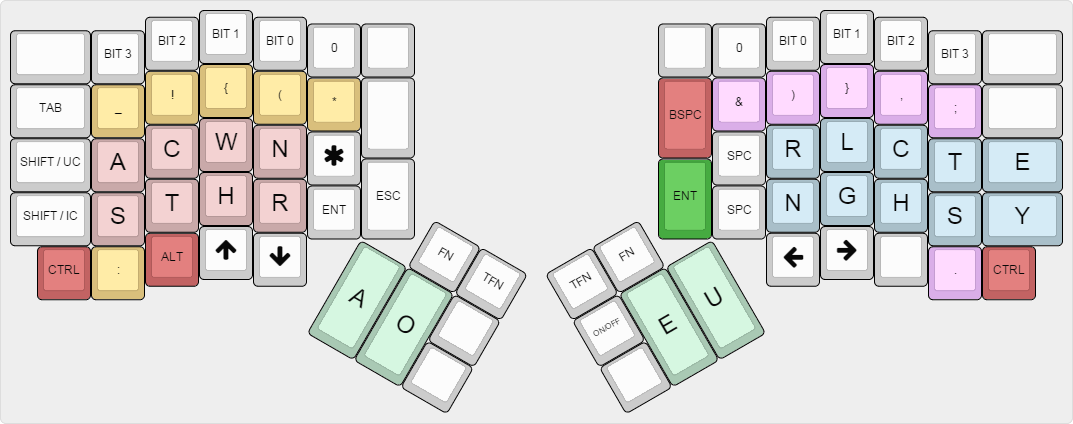
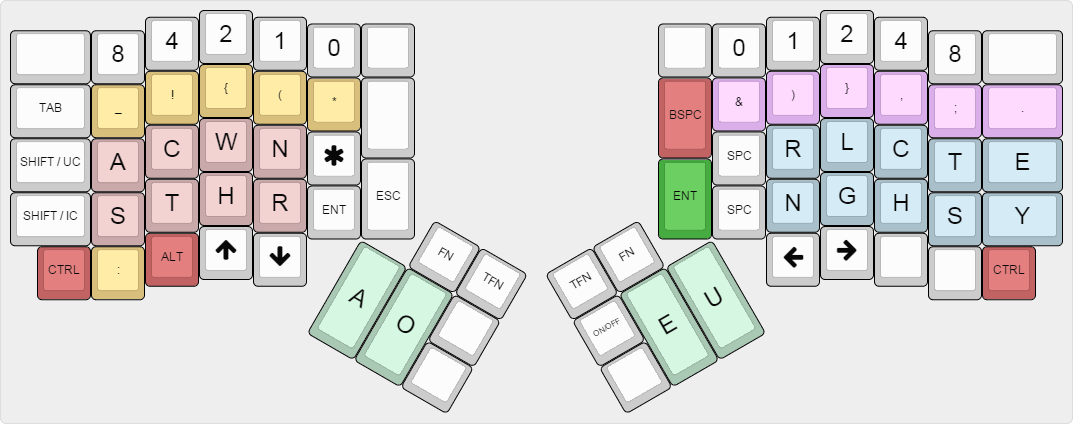
Keymap update

diff --git a/keyboard/ergodox_ez/keymaps/fromtonrouge/lookup_tables/shelton_tables.h b/keyboard/ergodox_ez/keymaps/fromtonrouge/lookup_tables/shelton_tables.h
@@ -1,5 +1,5 @@
-#ifndef SHELTON_TABLE_H
-#define SHELTON_TABLE_H
+#ifndef SHELTON_TABLES_H
+#define SHELTON_TABLES_H
 
 #include "encode.h"
 
@@ -550,90 +550,6 @@ const uint8_t PROGMEM g_right_pinky_table[4][MAX_LETTERS] =
     _1(KC_E),                               // [1]
     _1(KC_Y),                               // [2]
     _2(KC_E, KC_Y)                          // [3]
-};
-
-const uint16_t PROGMEM g_spaces_ctl_table[8][MAX_SYMBOLS] =
-{
-    NO_ENTRY,                               // [0]
-    _S1(KC_SPC),                            // [1]
-    _S1(KC_TAB),                            // [2]
-    NO_ENTRY,                               // [3]
-    _S1(KC_ENT),                            // [4]
-    NO_ENTRY,                               // [5]
-    NO_ENTRY,                               // [6]
-    NO_ENTRY,                               // [7]
-};
-
-const uint16_t PROGMEM g_left_numbers[32][MAX_SYMBOLS] =
-{
-    NO_ENTRY,                               // [0]
-    _S1(_N1),                               // [1]
-    _S1(_N2),                               // [2]
-    _S1(_N3),                               // [3]
-    _S1(_N4),                               // [4]
-    _S1(_N5),                               // [5]
-    _S1(_N6),                               // [6]
-    _S1(_N7),                               // [7]
-    _S1(_N8),                               // [8]
-    _S1(_N9),                               // [9]
-    _S2(_N1,_N0),                           // [10]
-    _S2(_N1,_N1),                           // [11]
-    _S2(_N1,_N2),                           // [12]
-    _S2(_N1,_N3),                           // [13]
-    _S2(_N1,_N4),                           // [14]
-    _S2(_N1,_N5),                           // [15]
-    _S1(_N0),                               // [16]
-    _S2(_N1, _N0),                          // [17]
-    _S2(_N2, _N0),                          // [18]
-    _S2(_N3, _N0),                          // [19]
-    _S2(_N4, _N0),                          // [20]
-    _S2(_N5, _N0),                          // [21]
-    _S2(_N6, _N0),                          // [22]
-    _S2(_N7, _N0),                          // [23]
-    _S2(_N8, _N0),                          // [24]
-    _S2(_N9, _N0),                          // [25]
-    _S3(_N1, _N0, _N0),                     // [26]
-    _S3(_N1, _N1, _N0),                     // [27]
-    _S3(_N1, _N2, _N0),                     // [28]
-    _S3(_N1, _N3, _N0),                     // [29]
-    _S3(_N1, _N4, _N0),                     // [30]
-    _S3(_N1, _N5, _N0)                      // [31]
-};
-
-const uint16_t PROGMEM g_right_numbers[32][MAX_SYMBOLS] =
-{
-    NO_ENTRY,                               // [0]
-    _S1(_N1),                               // [1]
-    _S1(_N2),                               // [2]
-    _S1(_N3),                               // [3]
-    _S1(_N4),                               // [4]
-    _S1(_N5),                               // [5]
-    _S1(_N6),                               // [6]
-    _S1(_N7),                               // [7]
-    _S1(_N8),                               // [8]
-    _S1(_N9),                               // [9]
-    _S2(_N1,_N0),                           // [10]
-    _S2(_N1,_N1),                           // [11]
-    _S2(_N1,_N2),                           // [12]
-    _S2(_N1,_N3),                           // [13]
-    _S2(_N1,_N4),                           // [14]
-    _S2(_N1,_N5),                           // [15]
-    _S1(_N0),                               // [16]
-    _S2(_N1, _N0),                          // [17]
-    _S2(_N2, _N0),                          // [18]
-    _S2(_N3, _N0),                          // [19]
-    _S2(_N4, _N0),                          // [20]
-    _S2(_N5, _N0),                          // [21]
-    _S2(_N6, _N0),                          // [22]
-    _S2(_N7, _N0),                          // [23]
-    _S2(_N8, _N0),                          // [24]
-    _S2(_N9, _N0),                          // [25]
-    _S3(_N1, _N0, _N0),                     // [26]
-    _S3(_N1, _N1, _N0),                     // [27]
-    _S3(_N1, _N2, _N0),                     // [28]
-    _S3(_N1, _N3, _N0),                     // [29]
-    _S3(_N1, _N4, _N0),                     // [30]
-    _S3(_N1, _N5, _N0)                      // [31]
 };
 
 #endif

diff --git a/keyboard/ergodox_ez/keymaps/fromtonrouge/lookup_tables/misc_tables.h b/keyboard/ergodox_ez/keymaps/fromtonrouge/lookup_tables/misc_tables.h
@@ -1,0 +1,90 @@
+#ifndef MISC_TABLES_H
+#define MISC_TABLES_H
+
+#include "encode.h"
+
+const uint16_t PROGMEM g_spaces_ctl_table[8][MAX_SYMBOLS] =
+{
+    NO_ENTRY,                               // [0]
+    _S1(KC_SPC),                            // [1]
+    _S1(KC_TAB),                            // [2]
+    NO_ENTRY,                               // [3]
+    _S1(KC_ENT),                            // [4]
+    NO_ENTRY,                               // [5]
+    NO_ENTRY,                               // [6]
+    NO_ENTRY,                               // [7]
+};
+
+const uint16_t PROGMEM g_left_numbers[32][MAX_SYMBOLS] =
+{
+    NO_ENTRY,                               // [0]
+    _S1(_N1),                               // [1]
+    _S1(_N2),                               // [2]
+    _S1(_N3),                               // [3]
+    _S1(_N4),                               // [4]
+    _S1(_N5),                               // [5]
+    _S1(_N6),                               // [6]
+    _S1(_N7),                               // [7]
+    _S1(_N8),                               // [8]
+    _S1(_N9),                               // [9]
+    _S2(_N1,_N0),                           // [10]
+    _S2(_N1,_N1),                           // [11]
+    _S2(_N1,_N2),                           // [12]
+    _S2(_N1,_N3),                           // [13]
+    _S2(_N1,_N4),                           // [14]
+    _S2(_N1,_N5),                           // [15]
+    _S1(_N0),                               // [16]
+    _S2(_N1, _N0),                          // [17]
+    _S2(_N2, _N0),                          // [18]
+    _S2(_N3, _N0),                          // [19]
+    _S2(_N4, _N0),                          // [20]
+    _S2(_N5, _N0),                          // [21]
+    _S2(_N6, _N0),                          // [22]
+    _S2(_N7, _N0),                          // [23]
+    _S2(_N8, _N0),                          // [24]
+    _S2(_N9, _N0),                          // [25]
+    _S3(_N1, _N0, _N0),                     // [26]
+    _S3(_N1, _N1, _N0),                     // [27]
+    _S3(_N1, _N2, _N0),                     // [28]
+    _S3(_N1, _N3, _N0),                     // [29]
+    _S3(_N1, _N4, _N0),                     // [30]
+    _S3(_N1, _N5, _N0)                      // [31]
+};
+
+const uint16_t PROGMEM g_right_numbers[32][MAX_SYMBOLS] =
+{
+    NO_ENTRY,                               // [0]
+    _S1(_N1),                               // [1]
+    _S1(_N2),                               // [2]
+    _S1(_N3),                               // [3]
+    _S1(_N4),                               // [4]
+    _S1(_N5),                               // [5]
+    _S1(_N6),                               // [6]
+    _S1(_N7),                               // [7]
+    _S1(_N8),                               // [8]
+    _S1(_N9),                               // [9]
+    _S2(_N1,_N0),                           // [10]
+    _S2(_N1,_N1),                           // [11]
+    _S2(_N1,_N2),                           // [12]
+    _S2(_N1,_N3),                           // [13]
+    _S2(_N1,_N4),                           // [14]
+    _S2(_N1,_N5),                           // [15]
+    _S1(_N0),                               // [16]
+    _S2(_N1, _N0),                          // [17]
+    _S2(_N2, _N0),                          // [18]
+    _S2(_N3, _N0),                          // [19]
+    _S2(_N4, _N0),                          // [20]
+    _S2(_N5, _N0),                          // [21]
+    _S2(_N6, _N0),                          // [22]
+    _S2(_N7, _N0),                          // [23]
+    _S2(_N8, _N0),                          // [24]
+    _S2(_N9, _N0),                          // [25]
+    _S3(_N1, _N0, _N0),                     // [26]
+    _S3(_N1, _N1, _N0),                     // [27]
+    _S3(_N1, _N2, _N0),                     // [28]
+    _S3(_N1, _N3, _N0),                     // [29]
+    _S3(_N1, _N4, _N0),                     // [30]
+    _S3(_N1, _N5, _N0)                      // [31]
+};
+
+#endif

diff --git a/keyboard/ergodox_ez/keymaps/fromtonrouge/keymap.c b/keyboard/ergodox_ez/keymaps/fromtonrouge/keymap.c
@@ -1,8 +1,9 @@
 #include "ergodox_ez.h"
 
 #define AZERTY 1
-#include "lookup_tables/shelton_table.h"
-#include "lookup_tables/user_symbols_table.h"
+#include "lookup_tables/shelton_tables.h"
+#include "lookup_tables/misc_tables.h"
+#include "lookup_tables/user_tables.h"
 
 #include "debug.h"
 #include "action_layer.h"
@@ -247,10 +248,10 @@ KEYMAP(
                                                                                     T_A,   T_O,   0,
                 // Right hand
                             0,     NR_N0,      NR_B0,      NR_B1,      NR_B2,      NR_B3,      0,
-                            0,     USRR_0,     USRR_1,     USRR_2,     USRR_3,     USRR_4,     0,
+                            0,     USRR_0,     USRR_1,     USRR_2,     USRR_3,     USRR_4,     USRR_5,
                                    S_SPC,      R_R,        R_L,        R_C,        R_T,        RP_E,
                             0,     S_SPC,      R_N,        R_G,        R_H,        R_S,        RP_Y,
-                                               0,          0,          FR_COMM,    USRR_5,     0,
+                                               0,          0,          0,          0,          0,
                 0,     0,
                 0,
                 0,     T_E,   T_U

diff --git a/keyboard/ergodox_ez/keymaps/fromtonrouge/lookup_tables/user_tables.h b/keyboard/ergodox_ez/keymaps/fromtonrouge/lookup_tables/user_tables.h
@@ -1,5 +1,5 @@
-#ifndef USER_SYMBOLS_TABLE_H
-#define USER_SYMBOLS_TABLE_H
+#ifndef USER_TABLES_H
+#define USER_TABLES_H
 
 #include "encode.h"
 
